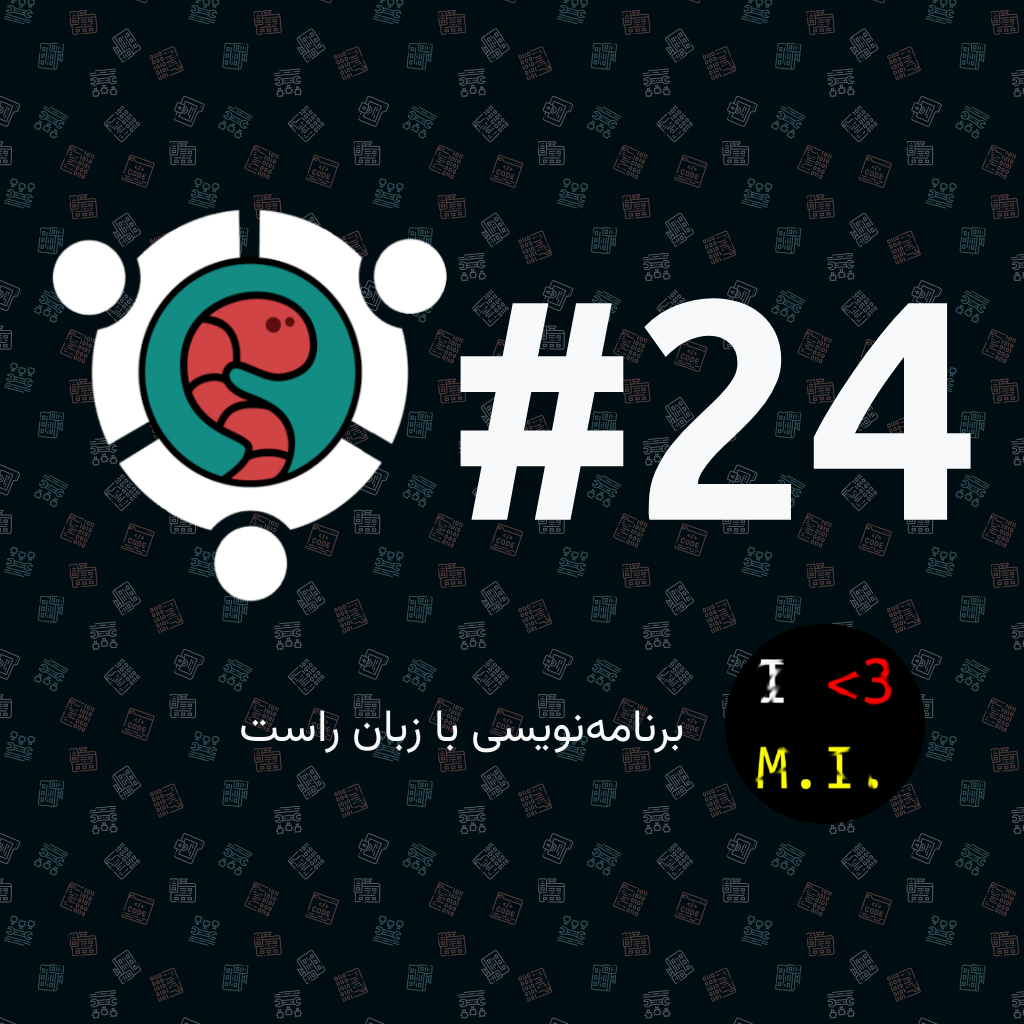
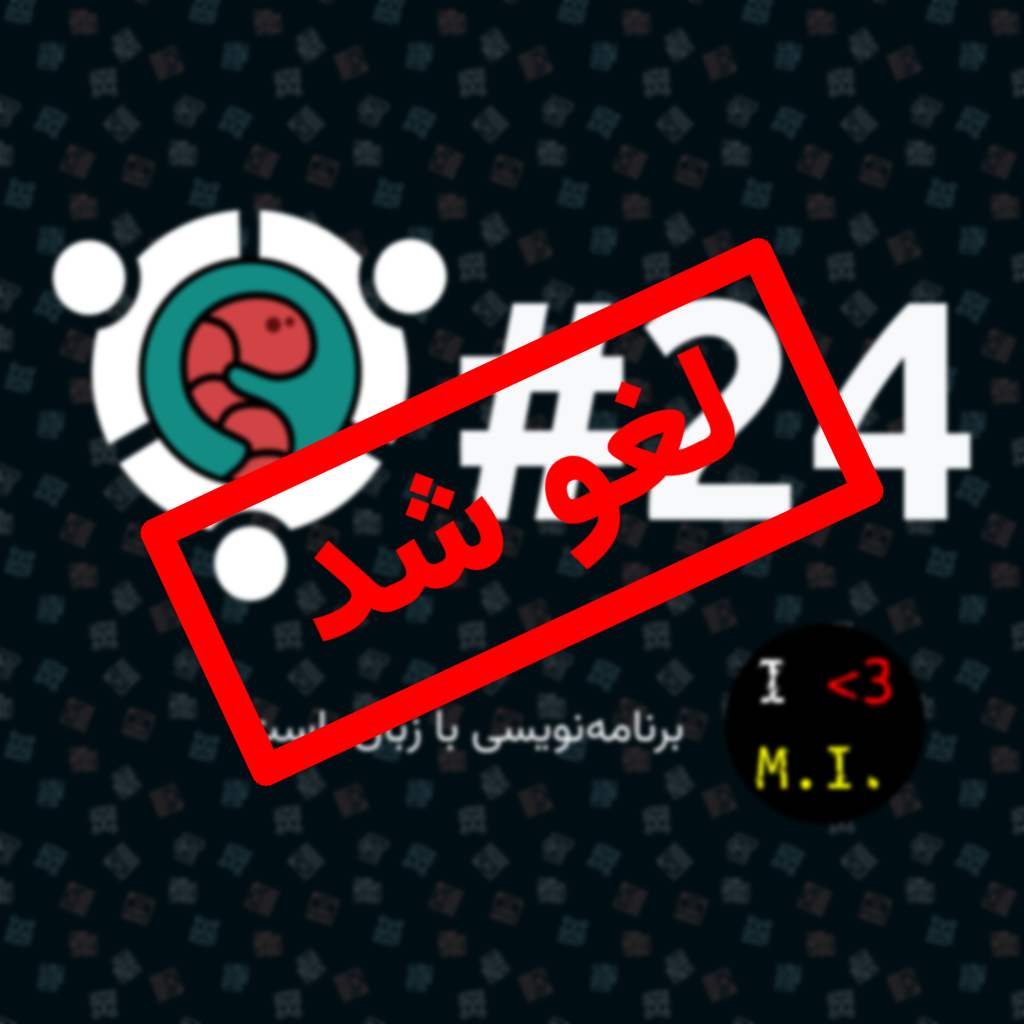
deploy: f7ae0545d9ff2c695f7cb0d77cbf697bd76950d9

diff --git a/24/index.html b/24/index.html
@@ -4,8 +4,8 @@
 <head>
     <meta charset="UTF-8">
     <meta name="viewport" content="width=device-width, initial-scale=1.0">
-        <meta property="og:title" content="دورهمی #24 کرمهای کامپیوتر - برنامهنویسی با زبان راست" />
-            <meta name="og:description" content="دورهمی #24 کرمهای کامپیوتر جمعه ساعت ۱۸  دربارهی برنامهنویسی با زبان راست با ارائهی فاروق کریمیزاده"/>
+        <meta property="og:title" content="دورهمی #24 کرمهای کامپیوتر - برنامهنویسی با زبان راست 🚫 لغو شد" />
+        <meta name="og:description" content="دورهمی #24 کرمهای کامپیوتر  دربارهی برنامهنویسی با زبان راست 🚫 لغو شد"/>
     <meta property="og:url" content="https://meet.pcworms.ir" />
     <meta property="og:image" content="./preview.png" />
     <title>دورهمیهای کرمهای کامپیوتر</title>
@@ -17,64 +17,6 @@
     <link
         href="https://fonts.googleapis.com/css2?family=Ubuntu+Mono:wght@700&family=Vazirmatn:wght@400;700&display=swap"
         rel="stylesheet">
-    <script>
-        var countDownDate = new Date("Apr 12 2024 18:00:00").getTime();
-        var finishDate = countDownDate + (1.5 * 3600 * 1000);
-
-        // Update the count down every 1 second
-        var x = setInterval(function () {
-            // Get today's date and time
-            var now = new Date().getTime();
-
-            // Find the distance between now and the count down date
-            var distance = countDownDate - now;
-
-            if (now > finishDate) {
-                document.getElementById("counter").innerHTML = "❌ خاتمه یافت";
-                document.getElementById("link").innerHTML = "لینک جلسه هم در گروه های ما در تلگرام و ماتریکس اعلام شده بود!";
-            } else if (distance < 0) {
-                clearInterval(x);
-                document.getElementById("counter").innerHTML = "در حال برگزاری ...";
-                document.getElementById("link").innerHTML = "لینک جلسه در گروه های ما در تلگرام و ماتریکس اعلام شده";
-            } else {
-                // Time calculations for days, hours, minutes and seconds
-                distance = Math.floor(distance / 1000)
-                var days = Math.floor(distance / (3600 * 24));
-                distance %= 3600 * 24;
-                var res = days > 0 ? days + " روز" : "";
-                if (distance > 0) res += " و ";
-
-                var hours = Math.floor(distance / 3600);
-                distance %= 3600;
-                if (hours > 0) res += hours + " ساعت";
-                if (distance > 0) res += " و ";
-                var minutes = Math.floor(distance / 60);
-                distance %= 60;
-                if (minutes > 0) res += minutes + " دقیقه"
-                if (distance > 0) res += " و "
-                var seconds = distance;
-
-                // Display the result in the element with id="demo"
-                var res = days + " روز";
-                res += days > 0 && hours > 0 ? " و " : ""
-                res += hours > 0 ? hours + " ساعت" : "";
-                res += hours > 0 && minutes > 0 ? " و " : ""
-                res += minutes > 0 ? minutes + " دقیقه" : "";
-                res += minutes > 0 && seconds > 0 ? " و " : ""
-                res += seconds > 0 ? seconds + " ثانیه" : "";
-                res += " دیگر"
-                const regex = /\d/g
-                let nums = '۰۱۲۳۴۵۶۷۸۹';
-                res = res.replace(regex, function (d) {
-                    return nums[d]
-                }
-                )
-                document.getElementById("counter").innerHTML = res;
-            }
-
-
-        }, 1000);
-    </script>
 </head>
 
 <body class="text-light">
@@ -101,7 +43,7 @@
                         </small>
                         <h2 class="subject">برنامهنویسی با زبان راست</h2>
                         <div class="text-center">
-                            <small class="time" id="counter"></small>
+                            <small class="time">🚫 لغو شد</small>
                         </div>
                     </div>
                 </div>

diff --git a/index.html b/index.html
@@ -4,8 +4,8 @@
 <head>
     <meta charset="UTF-8">
     <meta name="viewport" content="width=device-width, initial-scale=1.0">
-        <meta property="og:title" content="دورهمی #24 کرمهای کامپیوتر - برنامهنویسی با زبان راست" />
-            <meta name="og:description" content="دورهمی #24 کرمهای کامپیوتر جمعه ساعت ۱۸  دربارهی برنامهنویسی با زبان راست با ارائهی فاروق کریمیزاده"/>
+        <meta property="og:title" content="دورهمی #24 کرمهای کامپیوتر - برنامهنویسی با زبان راست 🚫 لغو شد" />
+        <meta name="og:description" content="دورهمی #24 کرمهای کامپیوتر  دربارهی برنامهنویسی با زبان راست 🚫 لغو شد"/>
     <meta property="og:url" content="https://meet.pcworms.ir" />
     <meta property="og:image" content="./preview.png" />
     <title>دورهمیهای کرمهای کامپیوتر</title>
@@ -17,64 +17,6 @@
     <link
         href="https://fonts.googleapis.com/css2?family=Ubuntu+Mono:wght@700&family=Vazirmatn:wght@400;700&display=swap"
         rel="stylesheet">
-    <script>
-        var countDownDate = new Date("Apr 12 2024 18:00:00").getTime();
-        var finishDate = countDownDate + (1.5 * 3600 * 1000);
-
-        // Update the count down every 1 second
-        var x = setInterval(function () {
-            // Get today's date and time
-            var now = new Date().getTime();
-
-            // Find the distance between now and the count down date
-            var distance = countDownDate - now;
-
-            if (now > finishDate) {
-                document.getElementById("counter").innerHTML = "❌ خاتمه یافت";
-                document.getElementById("link").innerHTML = "لینک جلسه هم در گروه های ما در تلگرام و ماتریکس اعلام شده بود!";
-            } else if (distance < 0) {
-                clearInterval(x);
-                document.getElementById("counter").innerHTML = "در حال برگزاری ...";
-                document.getElementById("link").innerHTML = "لینک جلسه در گروه های ما در تلگرام و ماتریکس اعلام شده";
-            } else {
-                // Time calculations for days, hours, minutes and seconds
-                distance = Math.floor(distance / 1000)
-                var days = Math.floor(distance / (3600 * 24));
-                distance %= 3600 * 24;
-                var res = days > 0 ? days + " روز" : "";
-                if (distance > 0) res += " و ";
-
-                var hours = Math.floor(distance / 3600);
-                distance %= 3600;
-                if (hours > 0) res += hours + " ساعت";
-                if (distance > 0) res += " و ";
-                var minutes = Math.floor(distance / 60);
-                distance %= 60;
-                if (minutes > 0) res += minutes + " دقیقه"
-                if (distance > 0) res += " و "
-                var seconds = distance;
-
-                // Display the result in the element with id="demo"
-                var res = days + " روز";
-                res += days > 0 && hours > 0 ? " و " : ""
-                res += hours > 0 ? hours + " ساعت" : "";
-                res += hours > 0 && minutes > 0 ? " و " : ""
-                res += minutes > 0 ? minutes + " دقیقه" : "";
-                res += minutes > 0 && seconds > 0 ? " و " : ""
-                res += seconds > 0 ? seconds + " ثانیه" : "";
-                res += " دیگر"
-                const regex = /\d/g
-                let nums = '۰۱۲۳۴۵۶۷۸۹';
-                res = res.replace(regex, function (d) {
-                    return nums[d]
-                }
-                )
-                document.getElementById("counter").innerHTML = res;
-            }
-
-
-        }, 1000);
-    </script>
 </head>
 
 <body class="text-light">
@@ -101,7 +43,7 @@
                         </small>
                         <h2 class="subject">برنامهنویسی با زبان راست</h2>
                         <div class="text-center">
-                            <small class="time" id="counter"></small>
+                            <small class="time">🚫 لغو شد</small>
                         </div>
                     </div>
                 </div>

diff --git a/24/preview.html b/24/preview.html
@@ -17,6 +17,7 @@
 </head>
 
 <body class="text-light">
+        <img class="cancelled" src="./assets/cancelled.png">
     <div class="container-fluid">
         <div class="row mt-2 text-center">
             <div class="col d-flex  align-items-center justify-content-center">

diff --git a/preview.html b/preview.html
@@ -17,6 +17,7 @@
 </head>
 
 <body class="text-light">
+        <img class="cancelled" src="./assets/cancelled.png">
     <div class="container-fluid">
         <div class="row mt-2 text-center">
             <div class="col d-flex  align-items-center justify-content-center">
